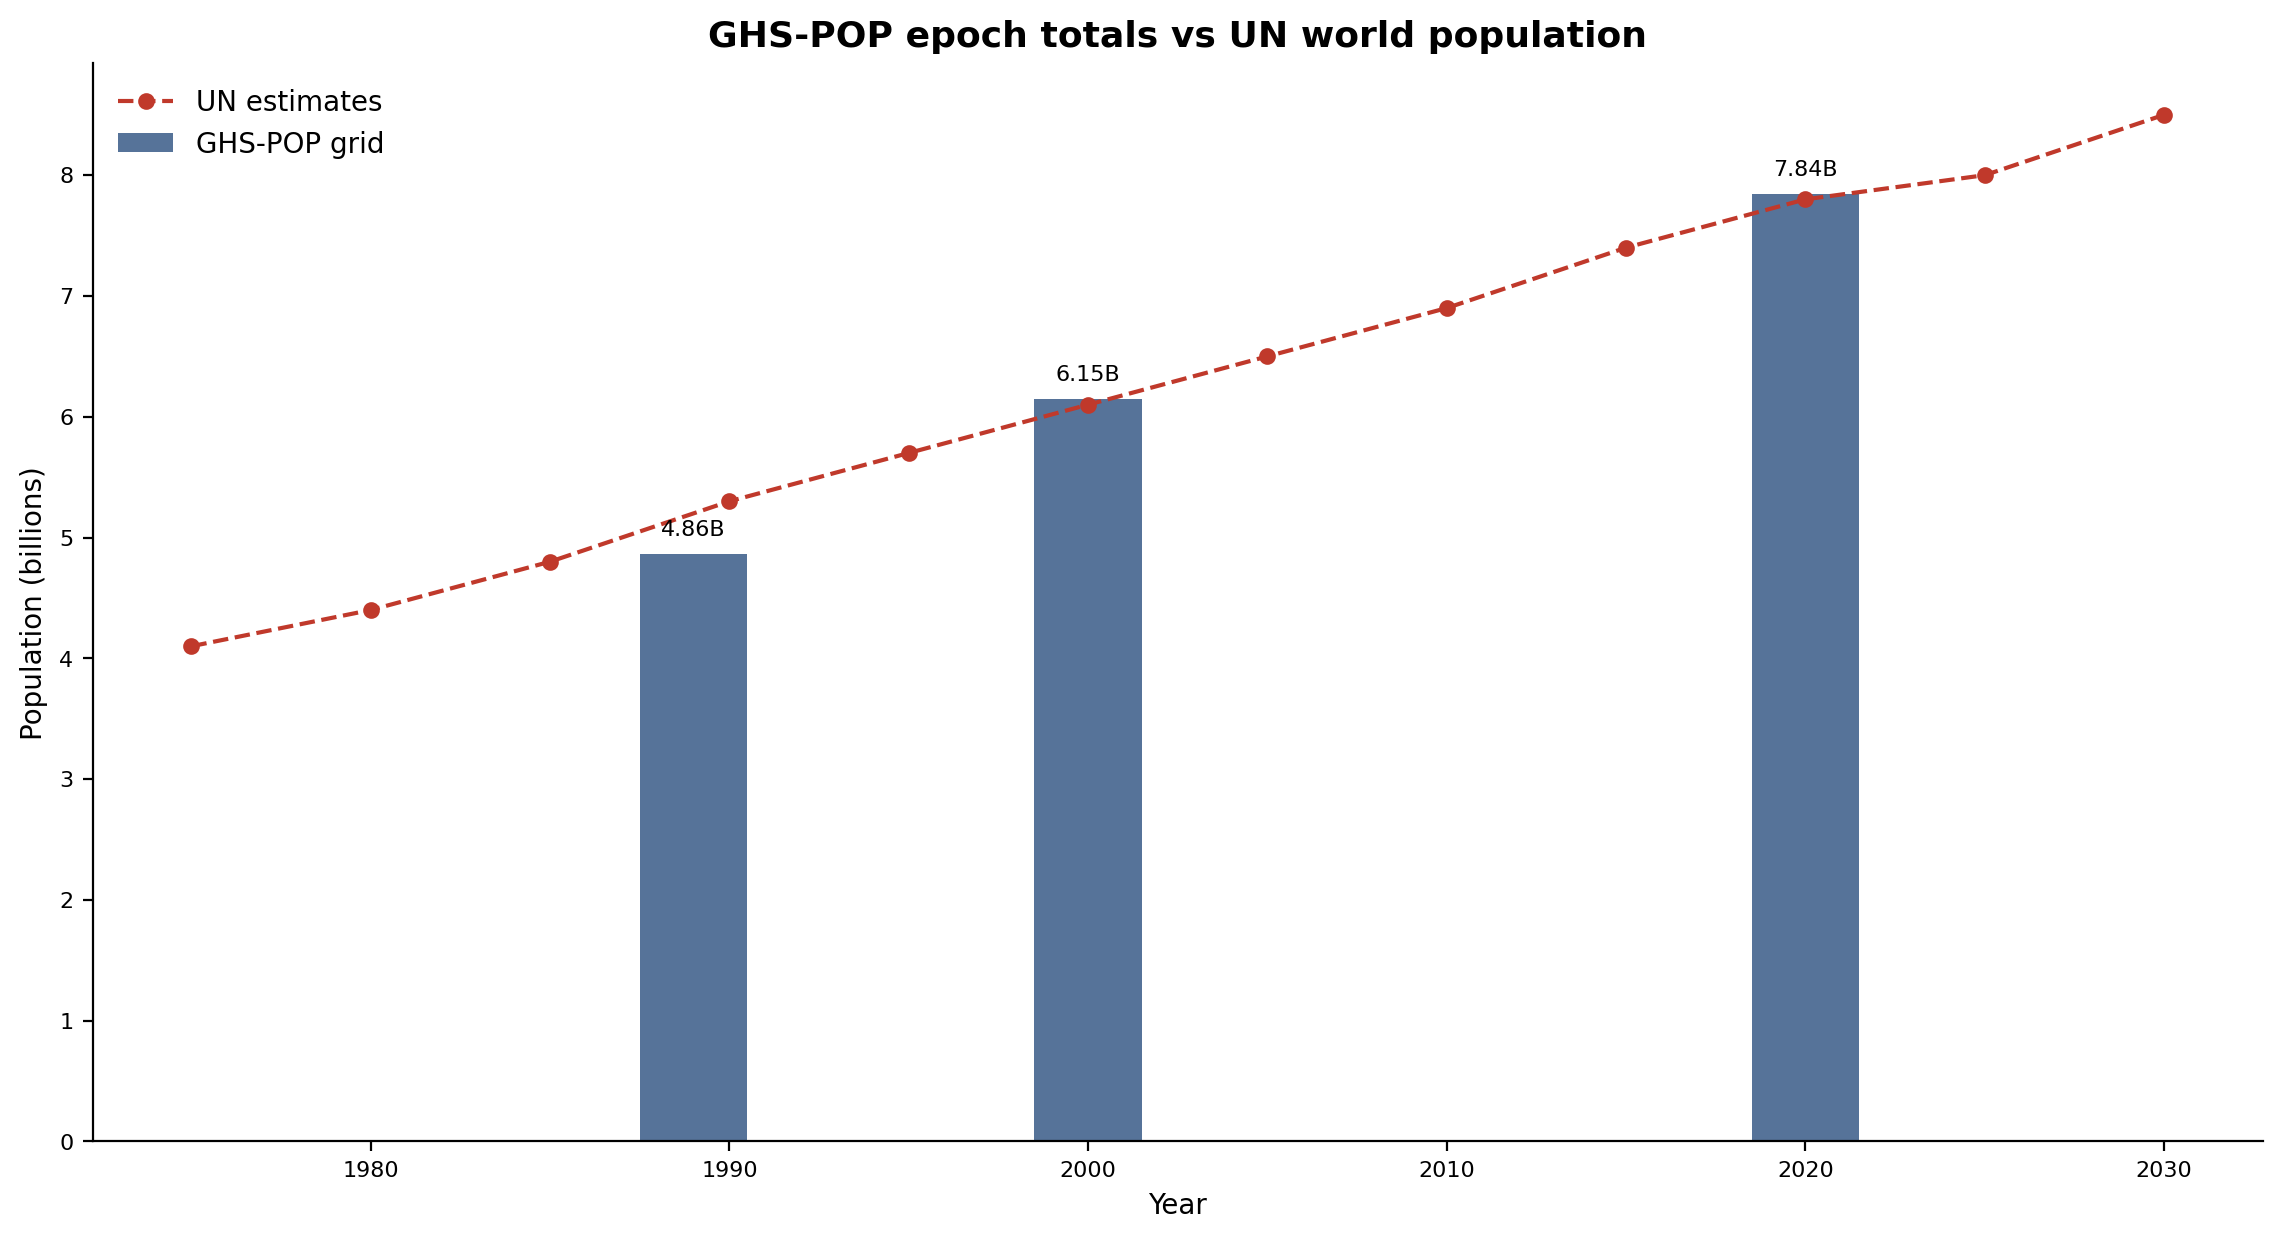
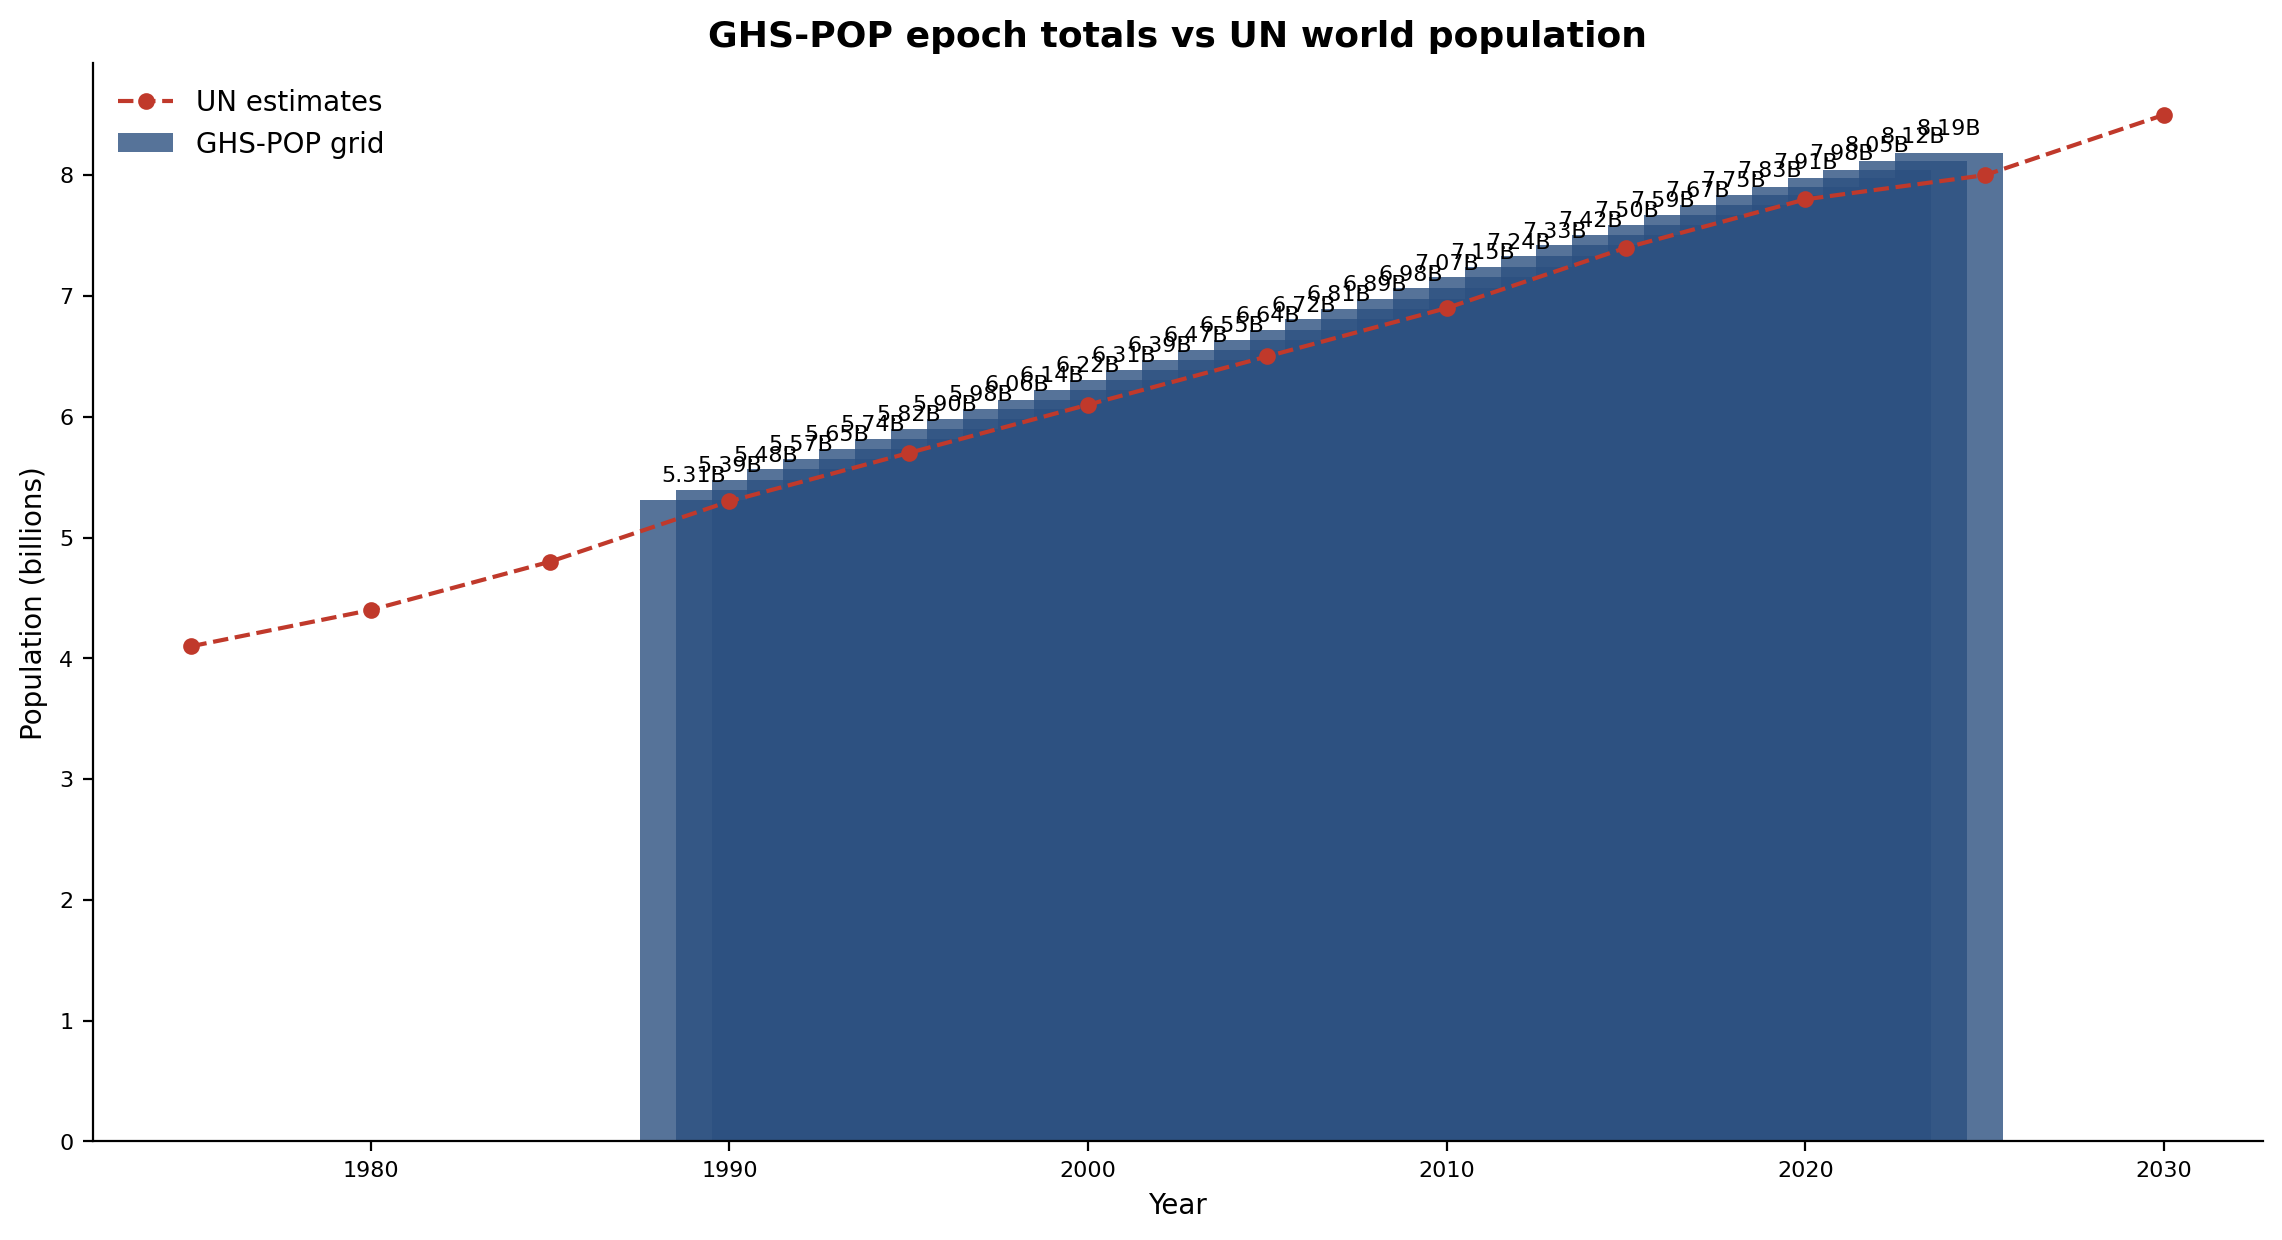
fix: regenerate audit plots with all 12 epochs + linear interpolation
Rebuilt GHS-POP grid from all 12 epochs (1975-2030) with linear
interpolation. Fixes the 2020-2024 plateau artifact from the previous
3-epoch run. Also fixes audit script: title no longer says "step
interpolation", epoch reference lines use known GHS-POP years instead
of detected transitions, Amazon spot check moved to genuinely remote
interior (-5, -65) away from Manaus.

diff --git a/scripts/verify_ghspop_grid.py b/scripts/verify_ghspop_grid.py
@@ -85,7 +85,7 @@ SPOT_CHECK_LOCATIONS = [
     ("New York", 40.7, -74.0),
     ("Sahara", 23.0, 5.0),
     ("Pacific Ocean", 0.0, -160.0),
-    ("Amazon", -3.0, -60.0),
+    ("Amazon interior", -5.0, -65.0),
 ]
 
 
@@ -358,17 +358,18 @@ def plot_monthly_time_series(d: PrecomputedData, out: Path) -> None:
     ax.plot(d.dates, d.monthly_pop / 1e9,
             color=COLOR_ACCENT, linewidth=1.5)
 
-    for year, t_idx in d.epoch_time_indices.items():
+    for year in sorted(KNOWN_WORLD_POP):
+        t_idx = (year - d.start_year) * 12
         if 0 < t_idx < d.n_t:
             ax.axvline(d.dates[t_idx], color="#C0392B",
-                       linewidth=0.8, linestyle="--", alpha=0.5)
+                       linewidth=0.8, linestyle="--", alpha=0.3)
             ax.text(d.dates[t_idx], ax.get_ylim()[1] * 0.98,
                     f" {year}", fontsize=7, color="#C0392B",
                     va="top", rotation=90)
 
     style_ax(
         ax,
-        title="GHS-POP global population (step interpolation)",
+        title="GHS-POP global population (monthly)",
         xlabel="Date", ylabel="Population (billions)",
     )
     ax.set_xlim(d.dates[0], d.dates[-1])
@@ -381,15 +382,17 @@ def plot_epoch_comparison(d: PrecomputedData, out: Path) -> None:
     import matplotlib.pyplot as plt
     import numpy as np
 
-    sorted_epochs = sorted(d.epoch_time_indices.items())
-    n_epochs = min(len(sorted_epochs), 3)
+    end_year = d.start_year + d.n_t // 12
+    mid_year = (d.start_year + end_year) // 2
+    snapshot_years = [d.start_year, mid_year, end_year - 1]
+    selected = [
+        (y, (y - d.start_year) * 12)
+        for y in snapshot_years
+        if 0 <= (y - d.start_year) * 12 < d.n_t
+    ]
+    n_epochs = len(selected)
     if n_epochs == 0:
         return
-
-    indices = [0, len(sorted_epochs) // 2, len(sorted_epochs) - 1]
-    if n_epochs < 3:
-        indices = list(range(n_epochs))
-    selected = [sorted_epochs[i] for i in indices[:n_epochs]]
 
     fig, axes = plt.subplots(1, n_epochs, figsize=FIG_PANEL_1x3)
     if n_epochs == 1:
@@ -565,7 +568,7 @@ def plot_spot_checks(d: PrecomputedData, out: Path) -> None:
         pop = d.latest_pop[row, col]
         first_pop = d.grid[0, row, col, d.pop_idx]
 
-        is_urban = name not in ("Sahara", "Pacific Ocean", "Amazon")
+        is_urban = name not in ("Sahara", "Pacific Ocean", "Amazon interior")
         if is_urban:
             status = "PASS" if pop > 100_000 else "INVESTIGATE"
         else:
